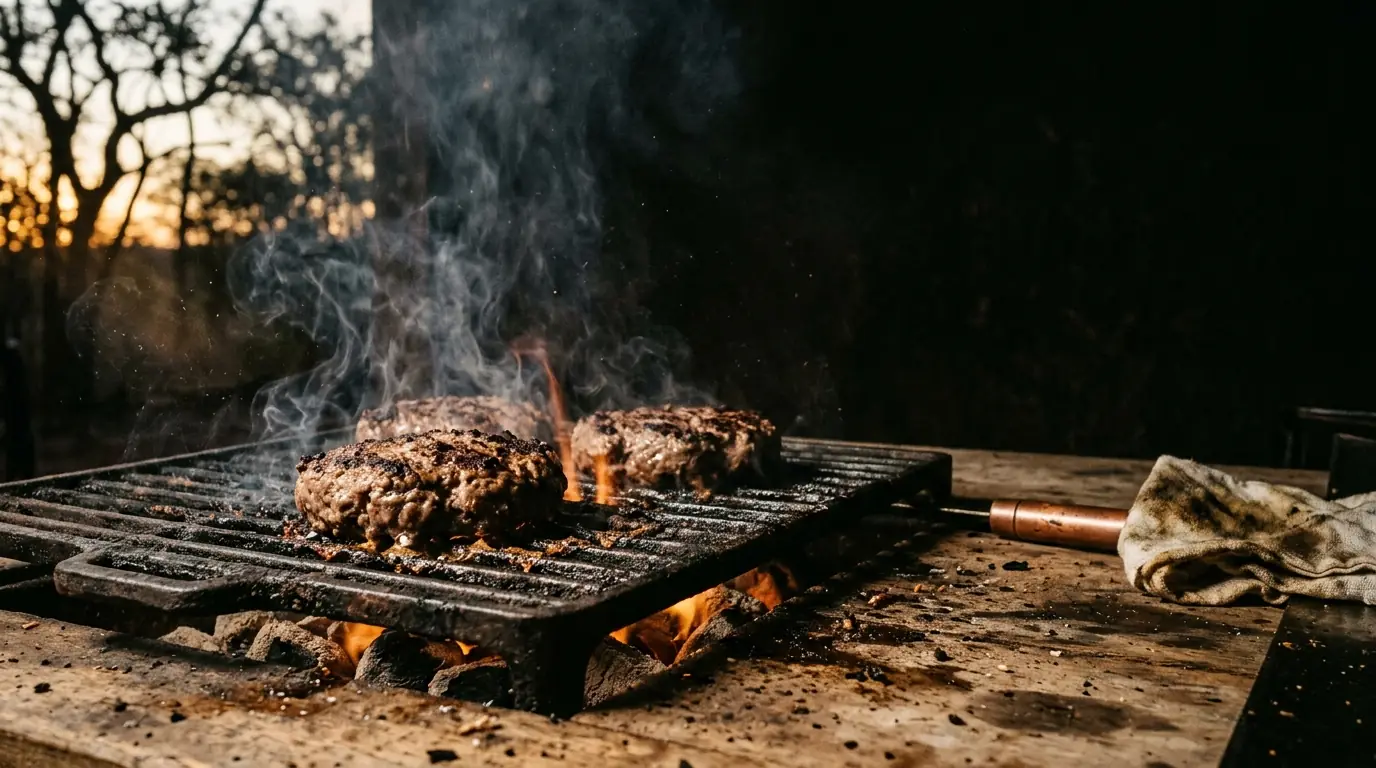
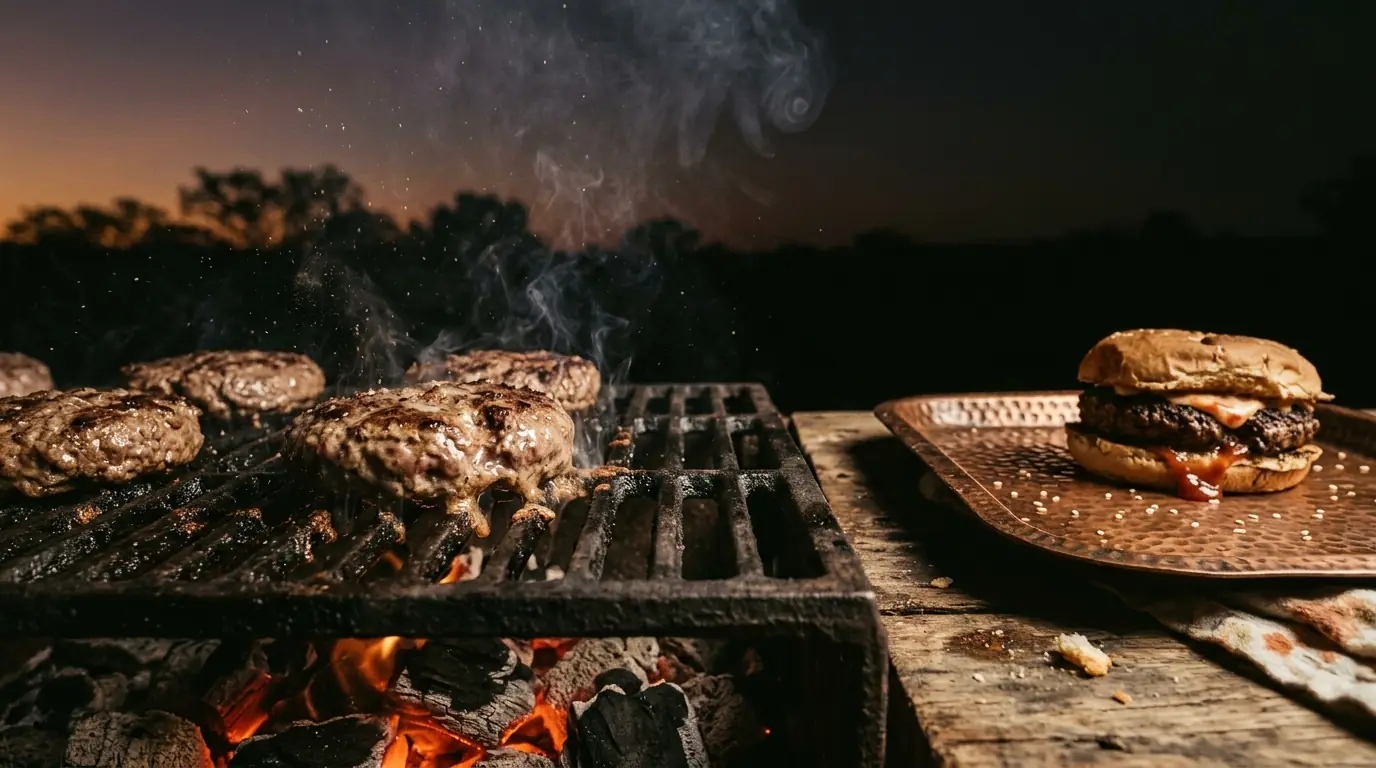
feat(hero): o burger volta — descrito quebrado, nao removido
Correcao de rota. O burger montado tinha sido tirado porque era o que
denunciava geracao nas tres primeiras variantes. Remover resolveu o
plastico, mas custou o produto — landing de hamburgueria precisa mostrar
hamburguer. Eu tinha exagerado na correcao.

Ele volta sob a regra que o take anterior ensinou: o modelo acerta
textura irregular e erra superficie lisa. Entao cada instrucao do bloco
de sujeito nega uma caracteristica de render — pao prensado torto nega
simetria, molho escorrendo pela borda nega superficie limpa, gergelim
solto na bandeja nega composicao arrumada, metade na sombra e atras do
plano de foco nega nitidez uniforme.

A regra que fica: objeto liso nao precisa ser removido do quadro, precisa
ser descrito quebrado.

Disciplina do log respeitada: mudou SO o bloco de sujeito. Os outros seis
ficaram identicos e a seed foi a mesma, para a diferenca ser atribuivel.
A fumaca cinza-azulada continua na fila em vez de ser corrigida junto —
mexer em sujeito e atmosfera na mesma geracao tornaria impossivel saber
o que resolveu o que.

Na pagina a composicao fecha: grelha a esquerda, burger a direita,
headline no vazio escuro do meio. O burger fica parcialmente atras do
"HORA." e isso cria profundidade em vez de atrapalhar.

Registrado com nota 4/5 e a fila de correcoes isoladas: fumaca, depois
selagem das carnes, depois take em pro para resolver resolucao.

Claude-Session: https://claude.ai/code/session_017EFo1i9M1cCzw4t9KDmCzV

diff --git a/assets/prompts.md b/assets/prompts.md
@@ -208,6 +208,64 @@ prompt — pendente, modelo em 503 desde a aprovação.
 
 ---
 
+## 2026-08-25 — hero fusão + burger (take em produção)
+
+- **Modelo:** `gemini-3.1-flash-image` (o pro seguia em 503)
+- **Seed:** `44182` — mesma do take anterior
+- **Custo:** 1 geração
+- **Saída:** `assets/hero/hero-fusao-burger.webp` → aplicada em `public/assets/hero.webp`
+- **Nota:** 4/5
+
+**Mudança isolada em relação ao take anterior:** apenas o bloco de **sujeito**.
+Todos os outros seis blocos ficaram idênticos, para que a diferença fosse
+atribuível.
+
+```
+Beef patties searing on a battered cast iron grill grate in the lower left of
+the frame, fat rendering and spitting, char marks forming. On the worn wood to
+the lower right, one finished burger sits slightly off-kilter on a hammered
+copper tray: the bun pressed unevenly to one side, sauce escaping and running
+down the edge, a few sesame seeds fallen loose on the tray. It is lit only by
+the embers and the low sun, half of it falling into shadow, and it sits
+slightly behind the plane of focus.
+```
+
+**Contexto:** o burger montado tinha sido removido porque era o que denunciava
+geração nas três primeiras variantes. Remover resolveu o plástico, mas custou o
+produto — uma landing de hamburgueria precisa mostrar hambúrguer. Cliente pediu
+de volta.
+
+**O que funcionou:**
+
+Especificar imperfeição ponto a ponto salvou o burger. Cada instrução nega uma
+característica de render: pão prensado torto (nega simetria), molho escorrendo
+pela borda (nega superfície limpa), gergelim solto na bandeja (nega composição
+arrumada), metade na sombra e atrás do plano de foco (nega nitidez uniforme).
+
+Na página a composição fecha: grelha à esquerda, burger à direita, headline no
+vazio escuro do meio. O burger fica parcialmente atrás do "HORA." e isso cria
+profundidade em vez de atrapalhar.
+
+**Regra que emerge deste par de takes:** o modelo acerta textura irregular e
+erra superfície lisa. Objeto liso não precisa ser removido — precisa ser
+descrito quebrado.
+
+**O que falhou:**
+
+1. A fumaça continua cinza-azulada. Não foi tocada de propósito: mudar sujeito e
+   atmosfera juntos tornaria impossível saber o que resolveu o quê.
+2. Saída ainda em 1376px, ampliada ~2x no hero em tela retina.
+3. As carnes na grelha ficaram mais pálidas que no take anterior, com menos
+   crosta de selagem. Efeito colateral não pedido — a atenção do modelo se
+   dividiu com o burger novo.
+
+**Próxima correção isolada (a fila, uma por vez):**
+1. `Warm amber smoke lit from below by the embers, no grey or blue tint in the smoke`
+2. Reforçar a selagem das carnes na grelha, se o item 1 não resolver junto
+3. Take em `gemini-3-pro-image` para resolver resolução
+
+---
+
 ## Fotos de produto — não geradas
 
 Destaques e combos usam foto real do CDN público do cardápio do Brendi, via
